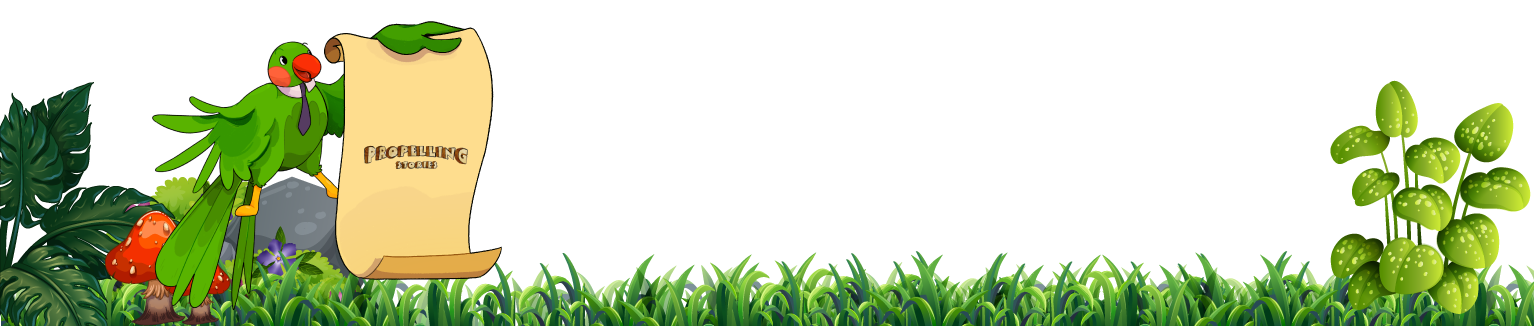
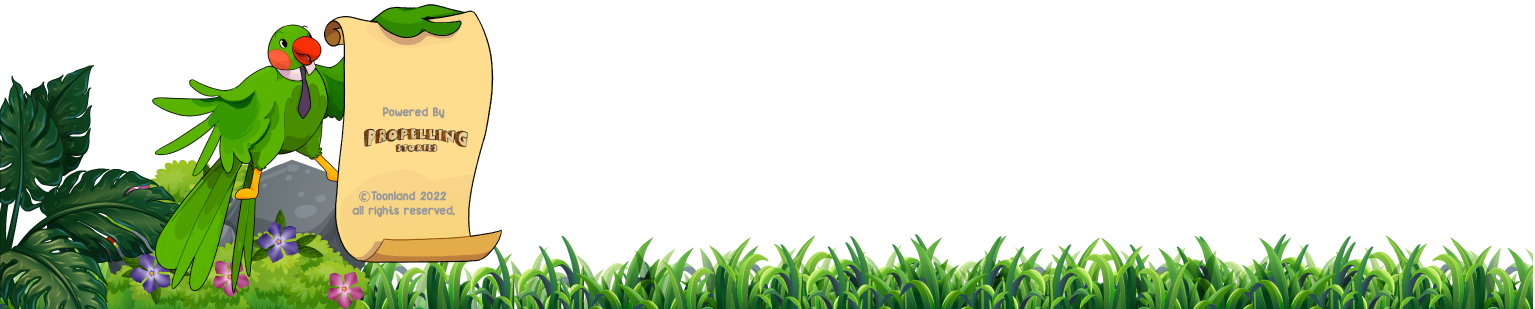
Home Page Mobile version
test 2

Changed region(s): [[0.0, 0.0, 1.0, 1.0], [0.245, 0.3495, 0.3062, 0.3786], [0.0, 0.9903, 0.0306, 1.0]]

diff --git a/index.html b/index.html
@@ -278,20 +278,21 @@
             <div class="container">
                 <div class="row">
                     <div class="col">
-                        <p class="powered">Powered By <br>
-                            <a href="http://propellingstories.com/">
+                        <p class="powered">
+                            <!-- Powered By <br> -->
+                            <!-- <a href="http://propellingstories.com/">
                                 <img src="/Assets/propelling logo.png" alt="" srcset="" width="170rem" height="auto">
-                            </a>
+                            </a> -->
                         </p>
                     </div>
 
                 </div>
-                <div class="row">
+                <!-- <div class="row">
                     <div class="col">
                         <p class="copyright ">&#169;Toonland 2022<br> all rights reserved.</p>
                     </div>
 
-                </div>
+                </div> -->
 
             </div>
 

diff --git a/css/sidebar.css b/css/sidebar.css
@@ -79,7 +79,7 @@
 @media only screen and (max-width: 600px) {
     .s-soft {
         position: fixed;
-        top: 150px;
+        top: 60px;
         left: 10;
         z-index: 1000;
         transition: all linear 0.2s;
@@ -102,9 +102,8 @@
 
     .s-item {
         display: block;
-        width: 40px;
-        height: 20px;
-        color: white;
+        width: 35px;
+        height: 45px;
         font-size: 25px;
         line-height: 40px;
         text-align: center;
@@ -121,32 +120,6 @@
         transition: all linear 0.2s;
     }
 
-    .facebook {
-        background-color: #ffffff00;
-    }
 
-    .twitter {
-        background-color: #ffffff00;
-    }
-
-    .print {
-        background-color: #ffffff00;
-    }
-
-    .pinterest {
-        background-color: #ffffff00;
-    }
-
-    .linkedin {
-        background-color: #ffffff00;
-    }
-
-    .instagram {
-        background-color: #ffffff00;
-    }
-
-    .so-collapse {
-        left: -60px;
-    }
 
 }

diff --git a/css/footer.css b/css/footer.css
@@ -124,27 +124,32 @@
 
 @media only screen and (max-width: 600px) {
     .footer {
+        position: relative;
         background-image: url(/Assets/mobile-footer.png);
         background-repeat: no-repeat;
         background-size: 100% auto;
+        bottom: 0rem;
+        padding-bottom: 0rem;
     }
 
     .powered {
         width: 100%;
         height: auto;
-        padding-top: 0px;
+        padding-top: -100rem;
         opacity: 0.3;
-        font-size: 3px;
-        margin-bottom: 0;
-        padding-left: 5rem;
+        font-size: 13px;
     }
 
     .footer .copyright {
-        padding-top: 0px;
+        position: absolute;
         opacity: 0.3;
-        font-size: 3px;
+        font-size: 13px;
         margin-bottom: 0;
-        padding-left: 4rem;
+        padding-left: 2rem;
     }
 
+    .powered img {
+        width: 1rem;
+        opacity: 0;
+    }
 }

diff --git a/css/header.css b/css/header.css
@@ -70,6 +70,20 @@ body {
 }
 
 @media only screen and (max-width: 600px) {
+    body {
+        margin: 0%;
+        padding: 0%;
+        font-family: mySecondFont;
+        overflow-x: hidden;
+    }
+
+    *{
+        margin: 0%;
+        padding: 0%;
+        font-family: mySecondFont;
+        overflow-x: hidden;
+    }
+
     .header {
         position: relative;
         padding: 20rem 12rem;
